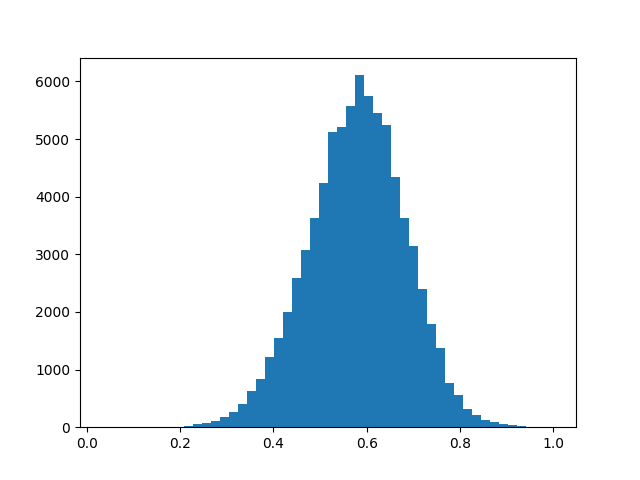
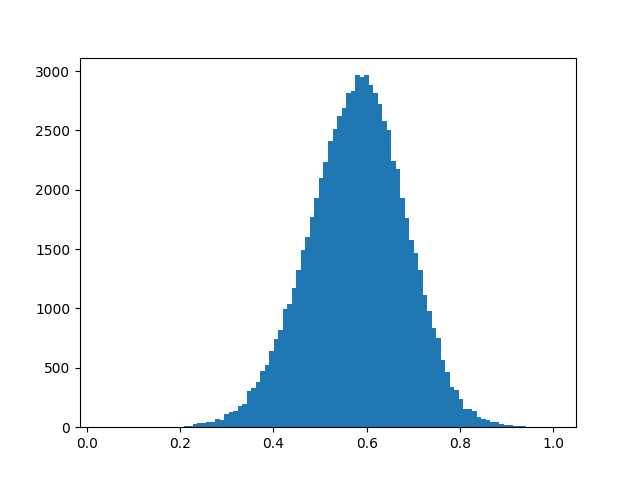
remove rounding

diff --git a/histograms.py b/histograms.py
@@ -13,8 +13,8 @@ modelName = str(
     # 'intfloat/e5-base-v2')
     # 'intfloat/e5-large-v2')
     # 'Snowflake/snowflake-arctic-embed-l-v2.0')
-    'sentence-transformers/average_word_embeddings_glove.6B.300d')
-    # 'sentence-transformers/average_word_embeddings_komninos')
+    # 'sentence-transformers/average_word_embeddings_glove.6B.300d')
+    'sentence-transformers/average_word_embeddings_komninos')
     # 'sentence-transformers/all-mpnet-base-v2')
     # 'sentence-transformers/all-MiniLM-L12-v2')
     # 'sentence-transformers/sentence-t5-xl')
@@ -42,11 +42,9 @@ similarities = model.similarity(embeddings, embeddings)
 lowerTriangle = []
 for i in range(len(documents)):
     for j in range(i):
-        lowerTriangle.append(round(similarities[i][j].item(), 3))
+        lowerTriangle.append(similarities[i][j].item())
 
 plt.hist(lowerTriangle, 50)
 plt.savefig(f'results/{modelName}/histogram.png')
 plt.close()
-
-
 
